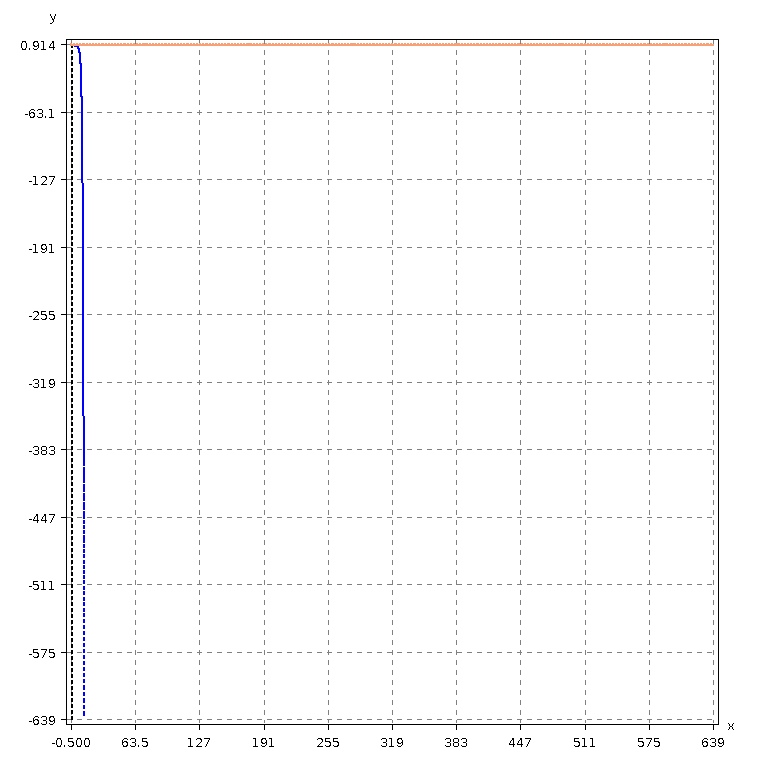
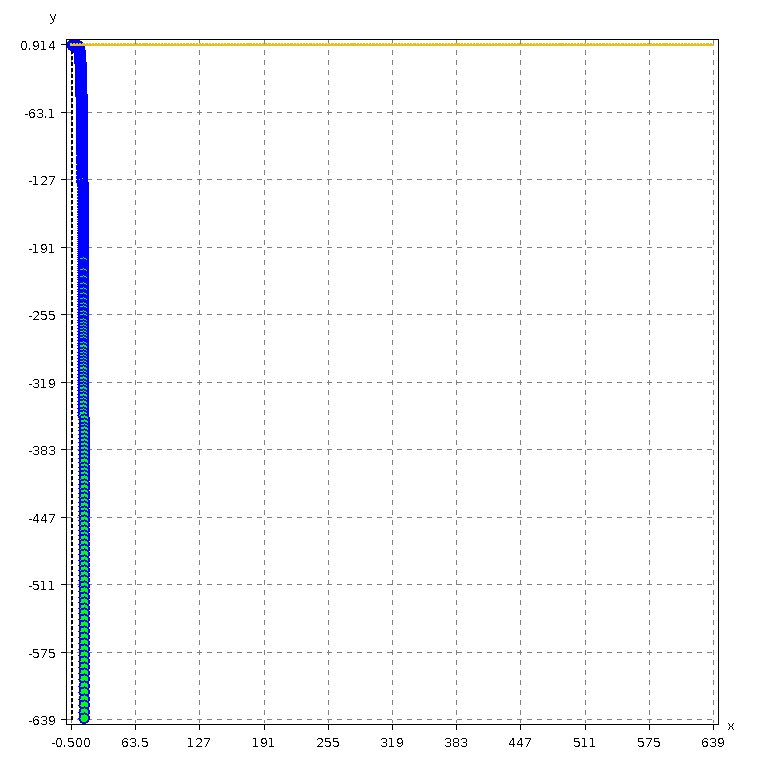
better

Changed region(s): [[0.0938, 0.0312, 0.9062, 0.9375]]

diff --git a/task51/src/main/java/mathe3/Task51D.java b/task51/src/main/java/mathe3/Task51D.java
@@ -1,31 +1,27 @@
 package mathe3;
-
 import java.util.List;
 import mathe3.plot.Plotter;
 import mathe3.plot.Point;
-
 public class Task51D {
-
     private static final double FROM = 0;
     private static final double TO = 4*Math.PI;
     public static final Point START_CONDITION = new Point(0, 1/5.);
     public static final double H = 0.01;
-
     public static void main(String[] args) {
         List<Point> approxEuler = new EulerMethod().
                 calculatePoints(Task51D::yDerivative, START_CONDITION, FROM, TO, H);
-        new Plotter(approxEuler, 500000, 0.5)
-                .function(Task51D::y).save(3);
+        new Plotter(new double[]{-2, 16, -16, 2}, 500000, 0.5)
+                .function(Task51D::y)
+                .points(approxEuler)
+                .save(3);
     }
-
 
     // y'(x)
     public static double yDerivative(double x, double y){
         return y - Math.cos(2*x);
     }
-
     // actual y(x)
     public static double y(double x){
-        return 1. / 5 * (Math.cos(2 * x) - 2 * Math.sin(2 * x));
+        return 0*Math.exp(x) + 1. / 5 * (Math.cos(2 * x) - 2 * Math.sin(2 * x));
     }
 }

diff --git a/task51/src/main/java/mathe3/plot/Plotter.java b/task51/src/main/java/mathe3/plot/Plotter.java
@@ -112,8 +112,8 @@ public class Plotter {
         plot.series(randomName(),
                 Plot.data().xy(xs, ys),
                 Plot.seriesOpts().markerColor(Color.GREEN)
-                        .marker(Plot.Marker.NONE)
-                        .line(Plot.Line.DASHED));
+                        .marker(Plot.Marker.CIRCLE)
+                        .line(Plot.Line.NONE));
         return this;
     }
 
